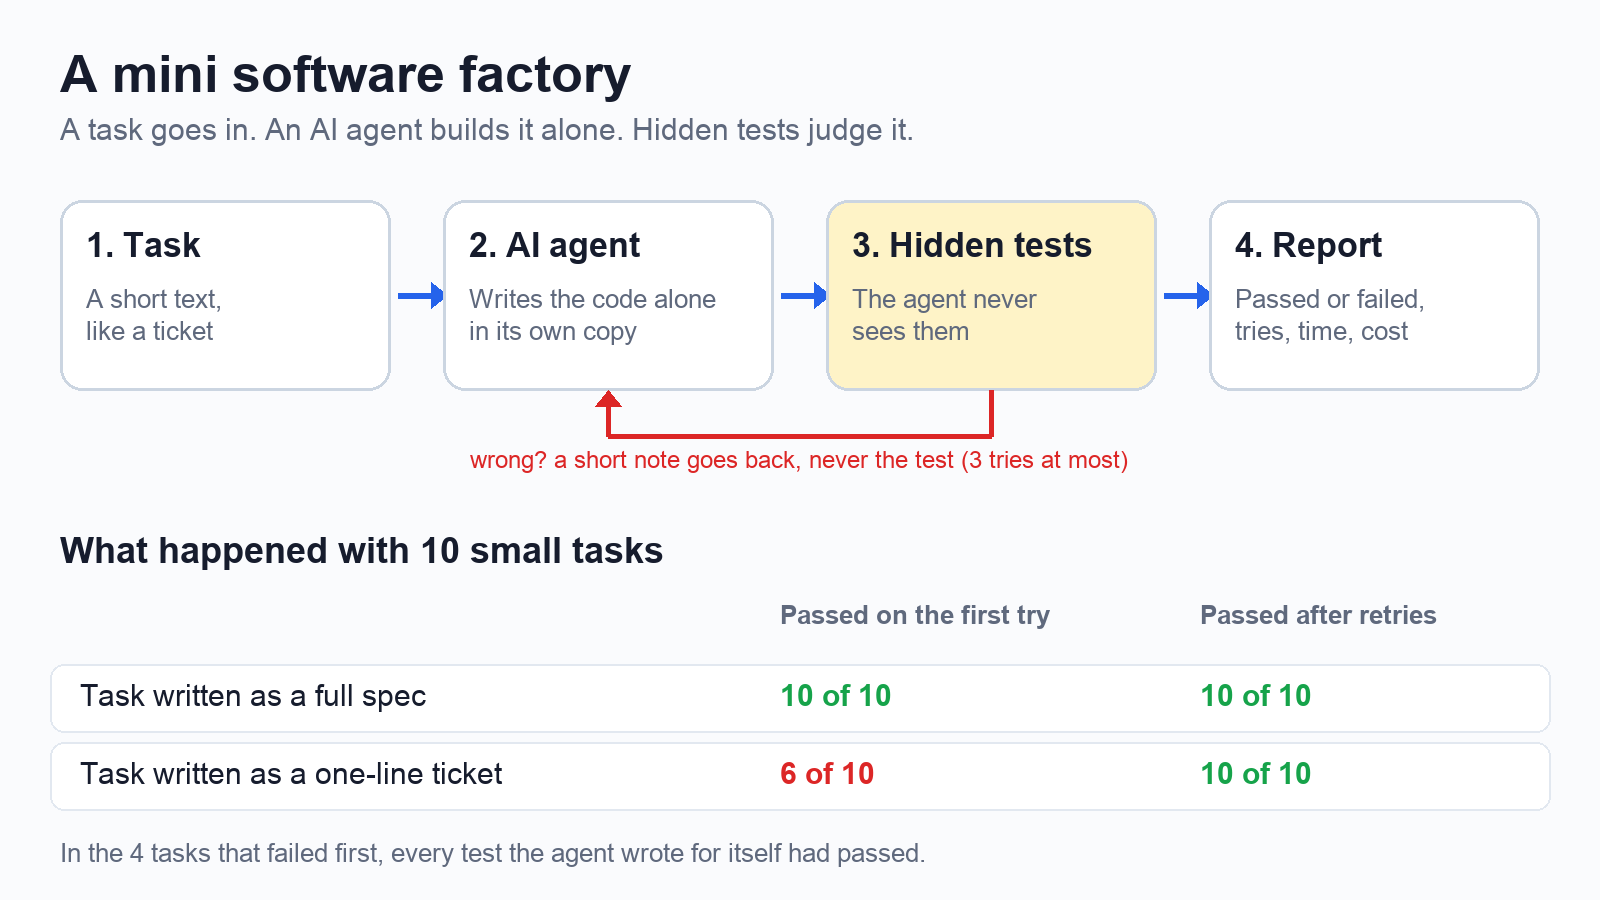
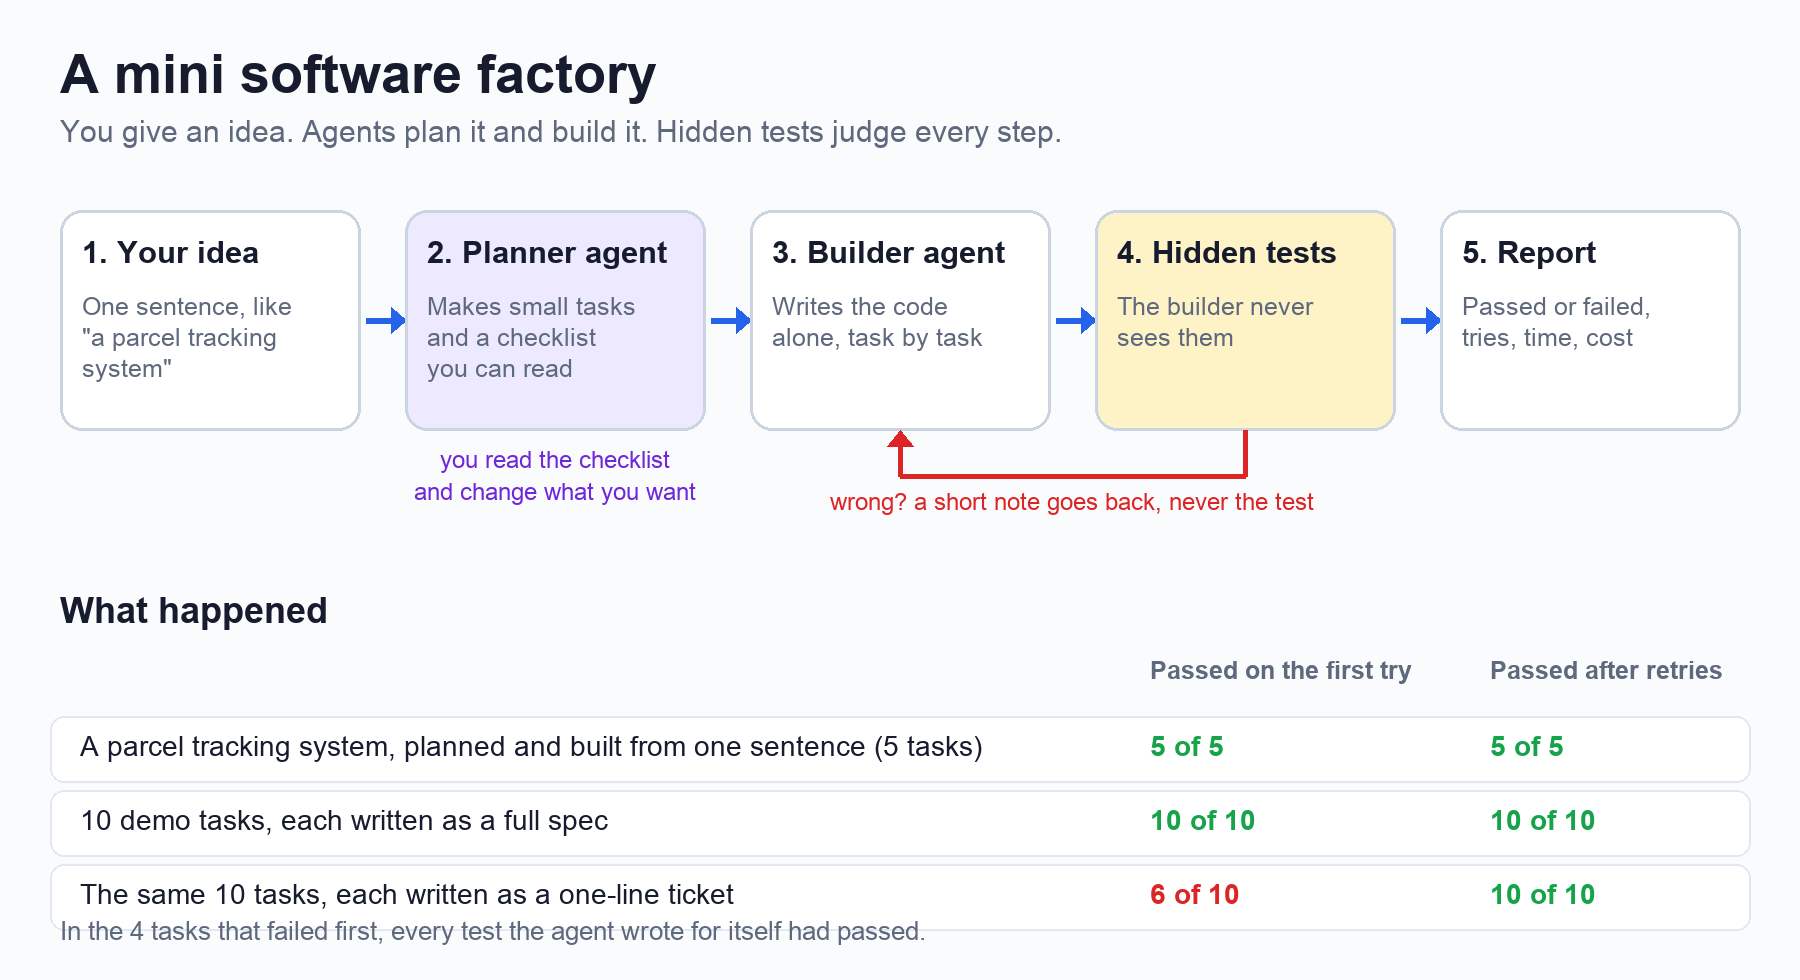
README: say what this is (a starting idea for backend logic), how to take it further, and redraw the picture with the planner

diff --git a/README.md b/README.md
@@ -3,7 +3,18 @@
 A small software factory you can run on a laptop. You give it an idea. A planner agent breaks it into small
 tasks, builder agents build them alone, and hidden tests judge every step.
 
-![A task goes to an AI agent, hidden tests judge the work, a report comes out](docs/how-it-works.png)
+![Your idea goes to a planner agent, builder agents build each task, hidden tests judge the work, a report comes out](docs/how-it-works.png)
+
+## What this is
+
+This is a **starting idea**, not a finished product. It shows, in one small file, how a software factory works, so
+you can understand it and build your own on top of it.
+
+- It builds the **backend logic** of a product: the rules and the data, in plain Python.
+- It is made for **small, simple things**: a tracking system, a booking system, a price calculator.
+- It does not build screens, websites or apps.
+
+If you want more, the part "Take it further" below shows where to add it.
 
 ## The problem
 
@@ -208,6 +219,23 @@ uv run factory.py tasks --api-key
 Without `--api-key`, the factory uses your Claude sign-in and ignores any API key, so you never get a bill by
 accident. A full run of ten tasks costs about $2 at API prices.
 
+## Take it further
+
+The factory is one file, so every part is easy to find and change.
+
+| You want | Where to change it in `factory.py` |
+|---|---|
+| A web API or screens on top of the logic | Change the planner's rules (`PLANNER`): allow a web framework and say how the tests call it |
+| Another language than Python | Change the planner's rules and the judge (`pytest`), which runs the tests |
+| A real database | Change the planner's rules; give the judge a test database |
+| Bigger products | Raise `--tasks`, or run `start` again for the next part of the product |
+| Several agents at the same time | `build` runs tasks one by one; tasks that do not depend on each other could run side by side |
+| Tasks from GitHub issues, results as pull requests | Replace the task folders (`start`) and the last step of `build` |
+| A stricter judge | Add your own tests to `hidden/` before you build |
+
+The three parts stay the same in any size of factory: someone plans, someone builds, and a judge that the builder
+cannot see decides.
+
 ## A lesson from building it
 
 On my very first run, the judge was wrong, not the agent. It failed a correct answer, and the agent spent two more
@@ -218,8 +246,7 @@ itself before any agent runs. A factory is only as good as its judge.
 
 ## Good to know
 
-It is teaching-size. It builds the logic of a product in plain Python: no screens, no web server, no database
-server. It never publishes anything by itself.
+It never publishes or merges anything by itself. It stops at the report, and a person decides what happens next.
 
 <details>
 <summary>More details: the files, writing your own task, settings</summary>
